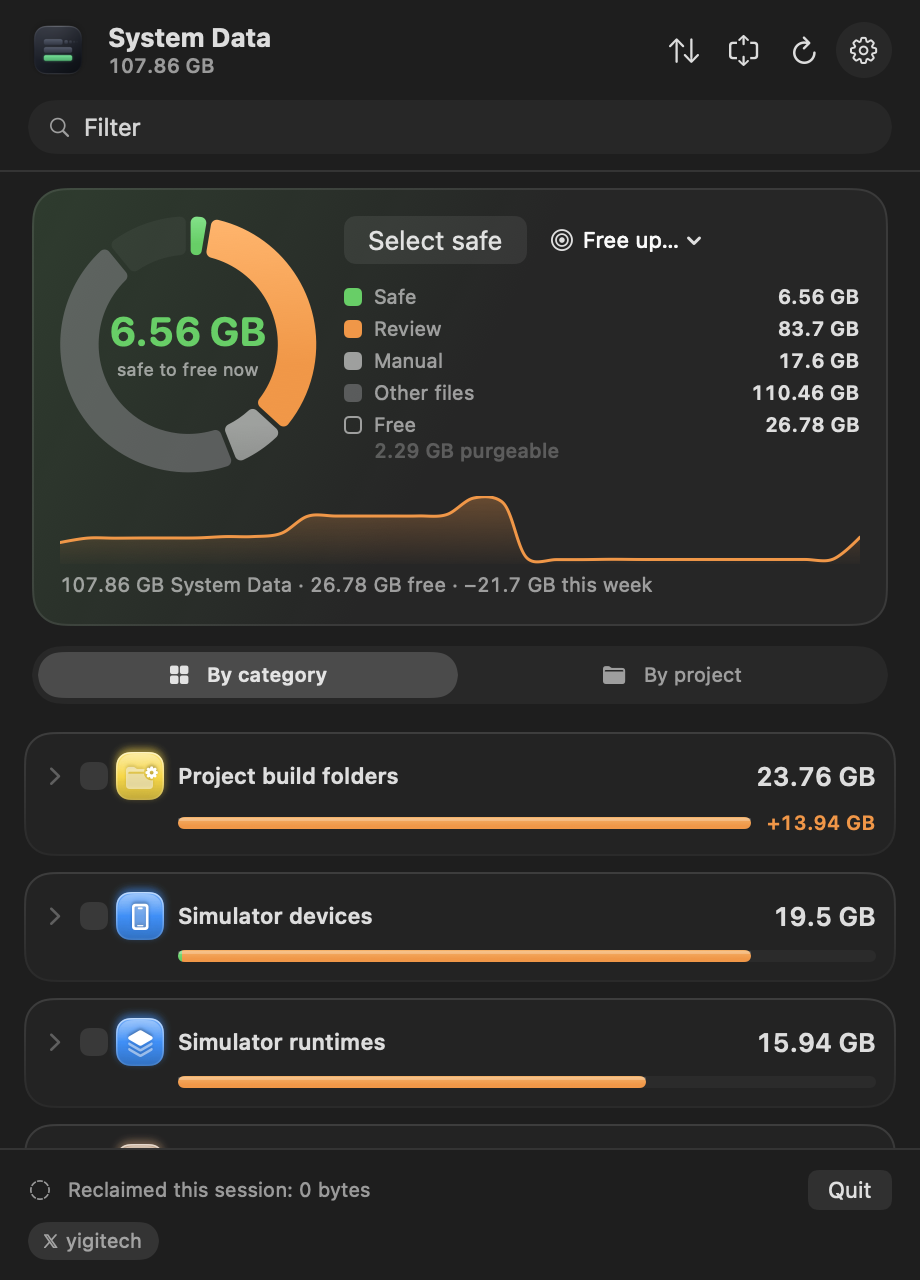
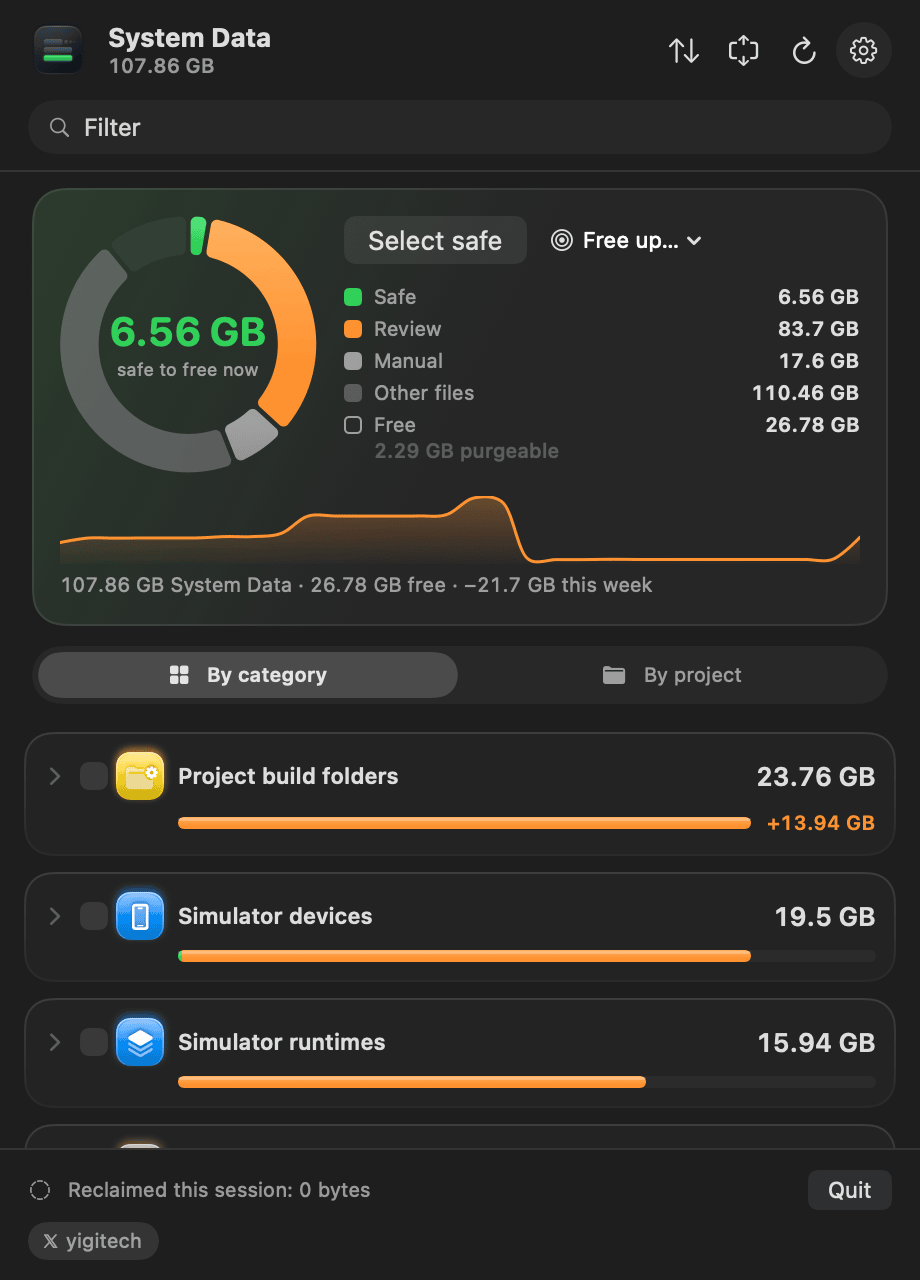
docs(site): strengthen SEO and lighten images
Adds robots directives with large image previews, explicit Twitter card tags, og:locale and an author. Structured data now describes the site, the author and the app (version, licence, feature list, screenshot as an image object) and the FAQ matches the page, including a new question on how to clear System Data. The header icon is the 180 px one rather than the 512 px, and the screenshot and share image are compressed from 337 KB and 1.2 MB to 70 KB and 56 KB at the same size.

diff --git a/docs/index.html b/docs/index.html
@@ -6,9 +6,13 @@
 <title>System Data Unpacked — see and clear macOS System Data</title>
 <meta name="description" content="A free Mac app that opens macOS System Data and lets you delete it, item by item, with every command shown first. Window or menu bar, your choice.">
 <link rel="canonical" href="https://macos-sysdata.yigitech.dev/">
+<meta name="robots" content="index, follow, max-image-preview:large, max-snippet:-1">
+<meta name="author" content="Yigit Can Polat">
+<link rel="sitemap" type="application/xml" href="/sitemap.xml">
 <meta name="theme-color" content="#eceef1" media="(prefers-color-scheme: light)">
 <meta name="theme-color" content="#131518" media="(prefers-color-scheme: dark)">
 <meta property="og:type" content="website">
+<meta property="og:locale" content="en_US">
 <meta property="og:site_name" content="System Data Unpacked">
 <meta property="og:url" content="https://macos-sysdata.yigitech.dev/">
 <meta property="og:title" content="System Data Unpacked — see and clear macOS System Data">
@@ -19,6 +23,11 @@
 <meta property="og:image:alt" content="System Data Unpacked: the disk as a ring with the space safe to free in its middle, and the categories of System Data listed largest first.">
 <meta name="twitter:card" content="summary_large_image">
 <meta name="twitter:site" content="@yigitech">
+<meta name="twitter:creator" content="@yigitech">
+<meta name="twitter:title" content="System Data Unpacked — see and clear macOS System Data">
+<meta name="twitter:description" content="A free Mac app that opens macOS System Data and lets you delete it, item by item, with every command shown first.">
+<meta name="twitter:image" content="https://macos-sysdata.yigitech.dev/og.png">
+<meta name="twitter:image:alt" content="System Data Unpacked: the disk as a ring with the space safe to free in its middle, and the categories of System Data listed largest first.">
 <link rel="icon" type="image/png" sizes="64x64" href="favicon.png">
 <link rel="apple-touch-icon" href="apple-touch-icon.png">
 <style>
@@ -217,12 +226,12 @@
     .sysdata span, .parts li, .sysdata-tag .now, .sysdata-tag .was { animation-duration: 0s !important; animation-delay: 0s !important; }
   }
 </style>
-<script type="application/ld+json">{"@context":"https://schema.org","@graph":[{"@type":"SoftwareApplication","name":"System Data Unpacked","alternateName":"macos-sysdata","description":"A free Mac app that opens macOS System Data and lets you delete it, item by item, with every command shown first.","applicationCategory":"UtilitiesApplication","operatingSystem":"macOS 14 or later","url":"https://macos-sysdata.yigitech.dev/","downloadUrl":"https://github.com/Jarvis322/macos-sysdata/releases/latest/download/SystemDataUnpacked.dmg","softwareHelp":"https://github.com/Jarvis322/macos-sysdata","image":"https://macos-sysdata.yigitech.dev/og.png","screenshot":"https://macos-sysdata.yigitech.dev/screenshot.png","offers":{"@type":"Offer","price":"0","priceCurrency":"USD"},"author":{"@type":"Person","name":"Yigit Can Polat","url":"https://yigitech.dev","sameAs":["https://x.com/yigitech","https://github.com/Jarvis322"]}},{"@type":"FAQPage","mainEntity":[{"@type":"Question","name":"What is System Data on a Mac?","acceptedAnswer":{"@type":"Answer","text":"System Data is the name Storage settings gives to everything it cannot file under Apps, Photos or Documents: caches, logs, simulator runtimes, local Time Machine snapshots, disk images, mail attachments and application support folders."}},{"@type":"Question","name":"Why is my System Data so large?","acceptedAnswer":{"@type":"Answer","text":"On a Mac used for development it is usually a handful of folders: Xcode DerivedData and archives, simulator runtimes, npm and Homebrew caches, Docker disks and downloaded models. Each regenerates on demand, and together they pass 100 GB."}},{"@type":"Question","name":"Can I delete System Data?","acceptedAnswer":{"@type":"Answer","text":"Parts of it. Caches and build folders regenerate on their own. Snapshots and device backups are a decision rather than a cleanup. System Data Unpacked labels every item and shows the command before it runs."}}]}]}</script>
+<script type="application/ld+json">{"@context":"https://schema.org","@graph":[{"@type":"WebSite","@id":"https://macos-sysdata.yigitech.dev/#website","url":"https://macos-sysdata.yigitech.dev/","name":"System Data Unpacked","inLanguage":"en","publisher":{"@id":"https://yigitech.dev/#person"}},{"@type":"Person","@id":"https://yigitech.dev/#person","name":"Yigit Can Polat","url":"https://yigitech.dev","sameAs":["https://x.com/yigitech","https://github.com/Jarvis322"]},{"@type":"SoftwareApplication","@id":"https://macos-sysdata.yigitech.dev/#app","name":"System Data Unpacked","alternateName":"macos-sysdata","description":"A free Mac app that opens macOS System Data and lets you delete it, item by item, with every command shown first.","applicationCategory":"UtilitiesApplication","applicationSubCategory":"Disk cleanup","operatingSystem":"macOS 14 or later","softwareVersion":"1.9.0","url":"https://macos-sysdata.yigitech.dev/","downloadUrl":"https://github.com/Jarvis322/macos-sysdata/releases/latest/download/SystemDataUnpacked.dmg","installUrl":"https://github.com/Jarvis322/macos-sysdata/releases/latest/download/SystemDataUnpacked.dmg","releaseNotes":"https://github.com/Jarvis322/macos-sysdata/blob/main/CHANGELOG.md","softwareHelp":{"@type":"CreativeWork","url":"https://github.com/Jarvis322/macos-sysdata"},"isAccessibleForFree":true,"license":"https://github.com/Jarvis322/macos-sysdata/blob/main/LICENSE","image":"https://macos-sysdata.yigitech.dev/og.png","screenshot":{"@type":"ImageObject","url":"https://macos-sysdata.yigitech.dev/screenshot.png","width":920,"height":1280},"featureList":["Lists macOS System Data by category with real sizes","Labels every item Safe, Review or Manual","Shows every command before it runs","Frees an amount by selecting the least worrying items","Groups build output by project","Lists Ollama and Hugging Face models one by one","Optional Touch ID before a delete","Charts System Data over time"],"offers":{"@type":"Offer","price":"0","priceCurrency":"USD"},"author":{"@id":"https://yigitech.dev/#person"},"publisher":{"@id":"https://yigitech.dev/#person"}},{"@type":"FAQPage","@id":"https://macos-sysdata.yigitech.dev/#faq","mainEntity":[{"@type":"Question","name":"What is System Data on a Mac?","acceptedAnswer":{"@type":"Answer","text":"System Data is the name Storage settings gives to everything it cannot file under Apps, Photos or Documents: caches, logs, simulator runtimes, local Time Machine snapshots, disk images, mail attachments and application support folders."}},{"@type":"Question","name":"Why is my System Data so large?","acceptedAnswer":{"@type":"Answer","text":"On a Mac used for development it is usually a handful of folders: Xcode DerivedData and archives, simulator runtimes, npm and Homebrew caches, Docker disks and downloaded models. Each regenerates on demand, and together they pass 100 GB."}},{"@type":"Question","name":"Can I delete System Data?","acceptedAnswer":{"@type":"Answer","text":"Parts of it. Caches and build folders regenerate on their own. Snapshots and device backups are a decision rather than a cleanup. System Data Unpacked labels every item and shows the command before it runs."}},{"@type":"Question","name":"How do I clear System Data on a Mac?","acceptedAnswer":{"@type":"Answer","text":"Find out what it is made of first, because it differs from Mac to Mac. System Data Unpacked lists every part with its size and a badge: delete the Safe items, which rebuild on their own, review the rest, and empty the Trash to get the space back."}},{"@type":"Question","name":"Why does it ask for Full Disk Access?","acceptedAnswer":{"@type":"Answer","text":"Most of System Data sits in folders macOS protects, and without the grant they cannot be measured. The app reads sizes and dates, not the contents of files, and never mail, messages or browsing history. It also works without the grant, with those places left out."}}]}]}</script>
 </head>
 <body>
 <div class="wrap">
   <div class="top">
-    <a class="brand" href="/"><img src="icon.png" width="512" height="512" alt="">System Data Unpacked</a>
+    <a class="brand" href="/"><img src="apple-touch-icon.png" width="180" height="180" alt="">System Data Unpacked</a>
     <nav aria-label="Site">
       <a class="hide-sm" href="#how">How it works</a>
       <a class="hide-sm" href="#questions">Questions</a>
@@ -349,6 +358,10 @@
         <details>
           <summary>Can I delete System Data?</summary>
           <p>Parts of it. Caches and build folders come back on their own, so removing them costs you a rebuild and nothing else. Snapshots and device backups are a decision rather than a cleanup. Nothing in macOS tells you which is which — this app labels every item before you touch it, and shows the command it will run.</p>
+        </details>
+        <details>
+          <summary>How do I clear System Data on a Mac?</summary>
+          <p>Find out what it is made of first, because the answer differs from Mac to Mac. Storage settings cannot tell you, so open System Data Unpacked: it lists every part with its size and a badge. Delete the ones marked Safe, which rebuild on their own, look at the ones marked Review, and leave snapshots and backups for last. Emptying the Trash afterwards is what gives the space back.</p>
         </details>
         <details>
           <summary>Why does it ask for Full Disk Access?</summary>
